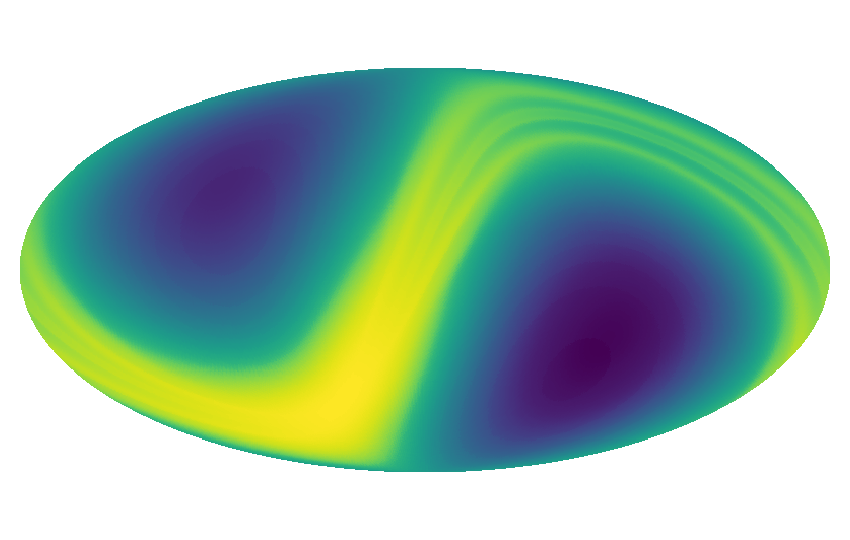
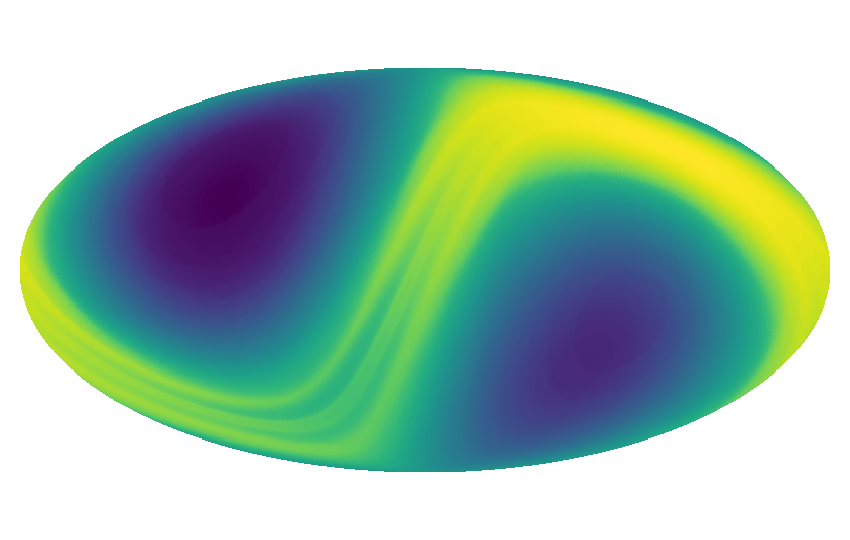
Updated README

diff --git a/README.md b/README.md
@@ -13,77 +13,69 @@ Zodipy is installed with `pip`.
 pip install zodipy
 ```
 
-## Examples
+## Usage
 The following examples provides an overview of how Zodipy may be used to produce
-various simulations of the Zodiacal emission.
+simulations of the Zodiacal emission.
 
-## Simulating a single observation
+## Simulating a single instantaneous observation
 The simplest use case of Zodipy is to simulate the instantaneous emission as
-seen from the Earth-Sun Lagrange point 2, as of today (This is the default
-behavior of the `Zodi` object):
+seen from an major body or a location in the Solar system, as of today:
 ```python
 import zodipy
 
 zodi = zodipy.Zodi()
 emission = zodi.get_emission(nside=128, freq=800)
 ```
-We started by initializing the `Zodi` object with default arguments, after which
-we have called the `get_emission` method of the `Zodi` object, which simulates
-the emission at a given map resolution (nside) and frequency. 
+By default, calling the `Zodi` object will set up the initial conditions of the
+simulation for an observer at L2 today. The `get_emission` method of the `Zodi`
+object, is then called to simulate and return the emission at a given map resolution
+(nside) and frequency. 
 
-We can visualize the emission using Healpy:
+We can visualize the above simulated emission using Healpy:
 
 ![plot](imgs/zodi_default.png)
 
-Alternatively, a specific observer, and a date (`datetime` object) can be passed
-as arguments to the `Zodi` object, which initializes the new configuration:
+Alternatively, a specific `observer`, and an `epochs` can be passed as arguments to the `Zodi` objects initialization. The `epochs` object must match one of the possible formats defined in [astroquery's JPL Horizons api](https://astroquery.readthedocs.io/en/latest/jplhorizons/jplhorizons.html).
+
 ```python
 import zodipy
-from datetime import datetime
 
-zodi = zodipy.Zodi('Planck', datetime(2010, 1, 1))
+MJD = 59215  # 2010-01-01 in Modified Julian dates
+zodi = zodipy.Zodi(observer='Planck', epochs=MJD)
 emission = zodi.get_emission(nside=128, freq=800)
 ```
 ![plot](imgs/zodi_planck.png)
 
-It is possible to return the Zodiacal emission component-wise by setting the
-keyword `return_comps` in the `get_emission` function to True.
+To return the component-wise emission the keyword `return_comps` in the
+`get_emission` function may be set to True.
 
-## Masked observations
-We can specify the angle between the observer and the Sun for which all pixels
-are masked out. This is done in the `get_emission` function by providing the
-keyword argument `solar_cut`, which takes in an angle. In the following we
-attempt to mimic typical satellite scanning strategies by masking out all pixels
-that look inwards towards the Sun:
+## Simulating the pixel weighted average over multiple observations
+By providing multiple dates in the `epochs` argument to `Zodi`, the
+`get_emission` function will return the average emission over all observations.
+
+It is possible to provide hit maps for each respective observation given by `epochs`. This is done by passing
+the a sequence of hit maps with the `hit_maps` argument to `Zodi`. 
+
+Below is an example where we simulate the
+pixel weighted average over daily observations over a year:
 ```python
 import zodipy
-from datetime import datetime
 
-zodi = zodipy.Zodi('Planck', datetime(2010, 1, 1))
-emission = zodi.get_emission(nside=128, freq=800, solar_cut=90)
+epochs = {
+    'start': '2020-01-01', 
+    'stop': '2021-01-01', 
+    'step' : '1d'
+}
+hit_maps = ... # Your list of hit_maps for each observation in epochs 
+
+zodi = zodipy.Zodi(observer='Planck', epochs=epochs, hit_maps=hit_maps)
+emission = zodi.get_emission(nside=128, freq=800)
 ```
-![plot](imgs/zodi_planck_masked.png)
+![plot](imgs/zodi_planck_weighted.png)
 
-## Simulating the mean over multiple observations
-We can simulate the mean emission over a set of observations by initializing the
-`Zodi` object with the following keywords:
-```python
-import zodipy
-from datetime import datetime
+This simulation closely resembles map making in the time-ordered domain, with the hit maps playing a significant role on the output map due to the motion of earth through the interplanetary dust.
 
-zodi = zodipy.Zodi(
-    observer='Planck', 
-    start=datetime(2010, 1, 1), 
-    stop=datetime(2011, 1, 1), 
-    step='10d'
-)
-emission = zodi.get_emission(nside=128, freq=800, solar_cut=90)
-```
-Here we take the mean of linearly spaced observations from 2010-01-01 to
-2011-01-01 with a step size of 10 days (note that this is a more expensive
-operation and may take up to a few minutes depending on the map resolution and
-number of observations). ![plot](imgs/zodi_planck_masked_mean.png)
-
+The hit maps used in the above example was simulated hit maps somewhat arbitrarily chosen (stripes of 10 degrees perpendicular to the ecliptic).
 ## Interplanetary dust models
 Zodipy uses the [Kelsall et al.
 (1998)](https://ui.adsabs.harvard.edu/abs/1998ApJ...508...44K/abstract)
